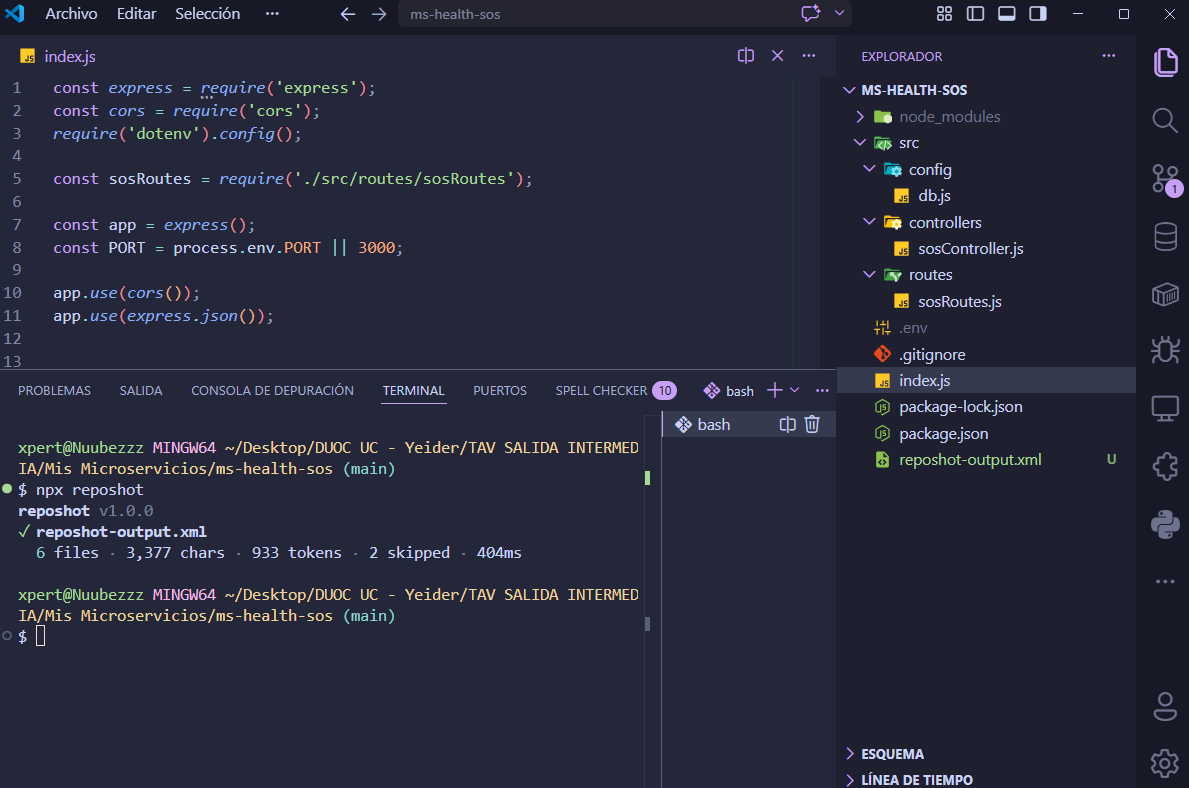
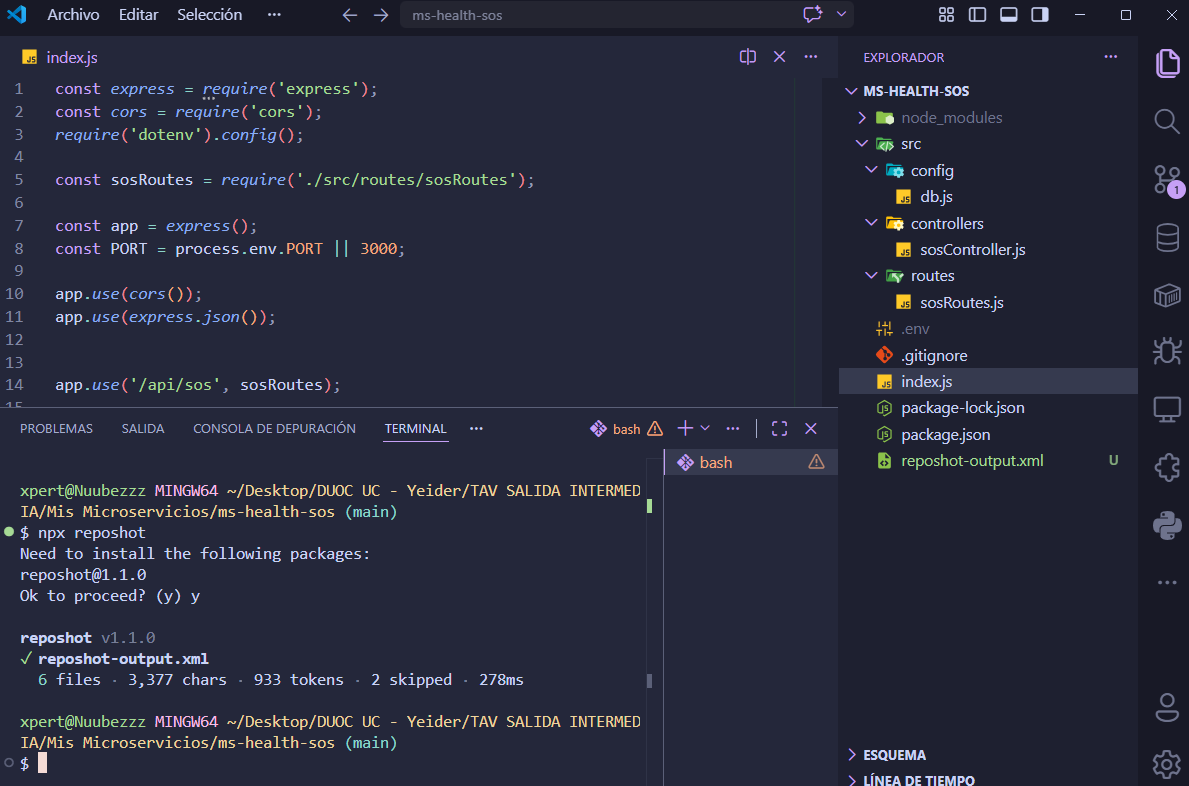
content(reposhot): update description and screenshot for v1.1.0
- Update fullDescription to reflect v1.1.0 security features (--check-secrets, symlink protection, output path validation)
- Replace screenshot-1.png with updated version showing current CLI output

diff --git a/src/data/projects.ts b/src/data/projects.ts
@@ -27,7 +27,7 @@ export const projects: Project[] = [
     shortDescription:
       "CLI en TypeScript que empaqueta cualquier repositorio local en un único archivo XML estructurado, optimizado para ser consumido por LLMs como Claude, ChatGPT o Gemini.",
     fullDescription:
-      "Desarrollé reposhot como una alternativa minimalista a herramientas similares, con solo 2 dependencias de producción frente a las 25+ que tienen competidores directos. La herramienta recorre el árbol de directorios de forma síncrona, respeta .gitignore y patrones personalizados via minimatch, detecta archivos binarios por inspección de bytes nulos, y genera un XML con metadata completa del repositorio incluyendo conteo real de tokens usando tiktoken con el encoding cl100k_base. Incluye CI/CD con GitHub Actions, suite de tests con node:test nativo y está publicado en npm. El proyecto sigue activo y próximamente recibirá nuevas funcionalidades.",
+      "Desarrollé reposhot como una alternativa minimalista a herramientas similares, con solo 2 dependencias de producción frente a las 25+ que tienen competidores directos. La herramienta recorre el árbol de directorios de forma síncrona, respeta .gitignore y patrones personalizados via minimatch, detecta archivos binarios por inspección de bytes nulos, y genera un XML con metadata completa del repositorio incluyendo conteo real de tokens usando tiktoken con el encoding cl100k_base. Incluye CI/CD con GitHub Actions, suite de tests con node:test nativo y está publicado en npm. La v1.1.0 incorpora mejoras de seguridad: detección de secrets con --check-secrets, protección contra symlinks externos y validación del path de salida.",
     tags: [
       "TypeScript",
       "Node.js",
